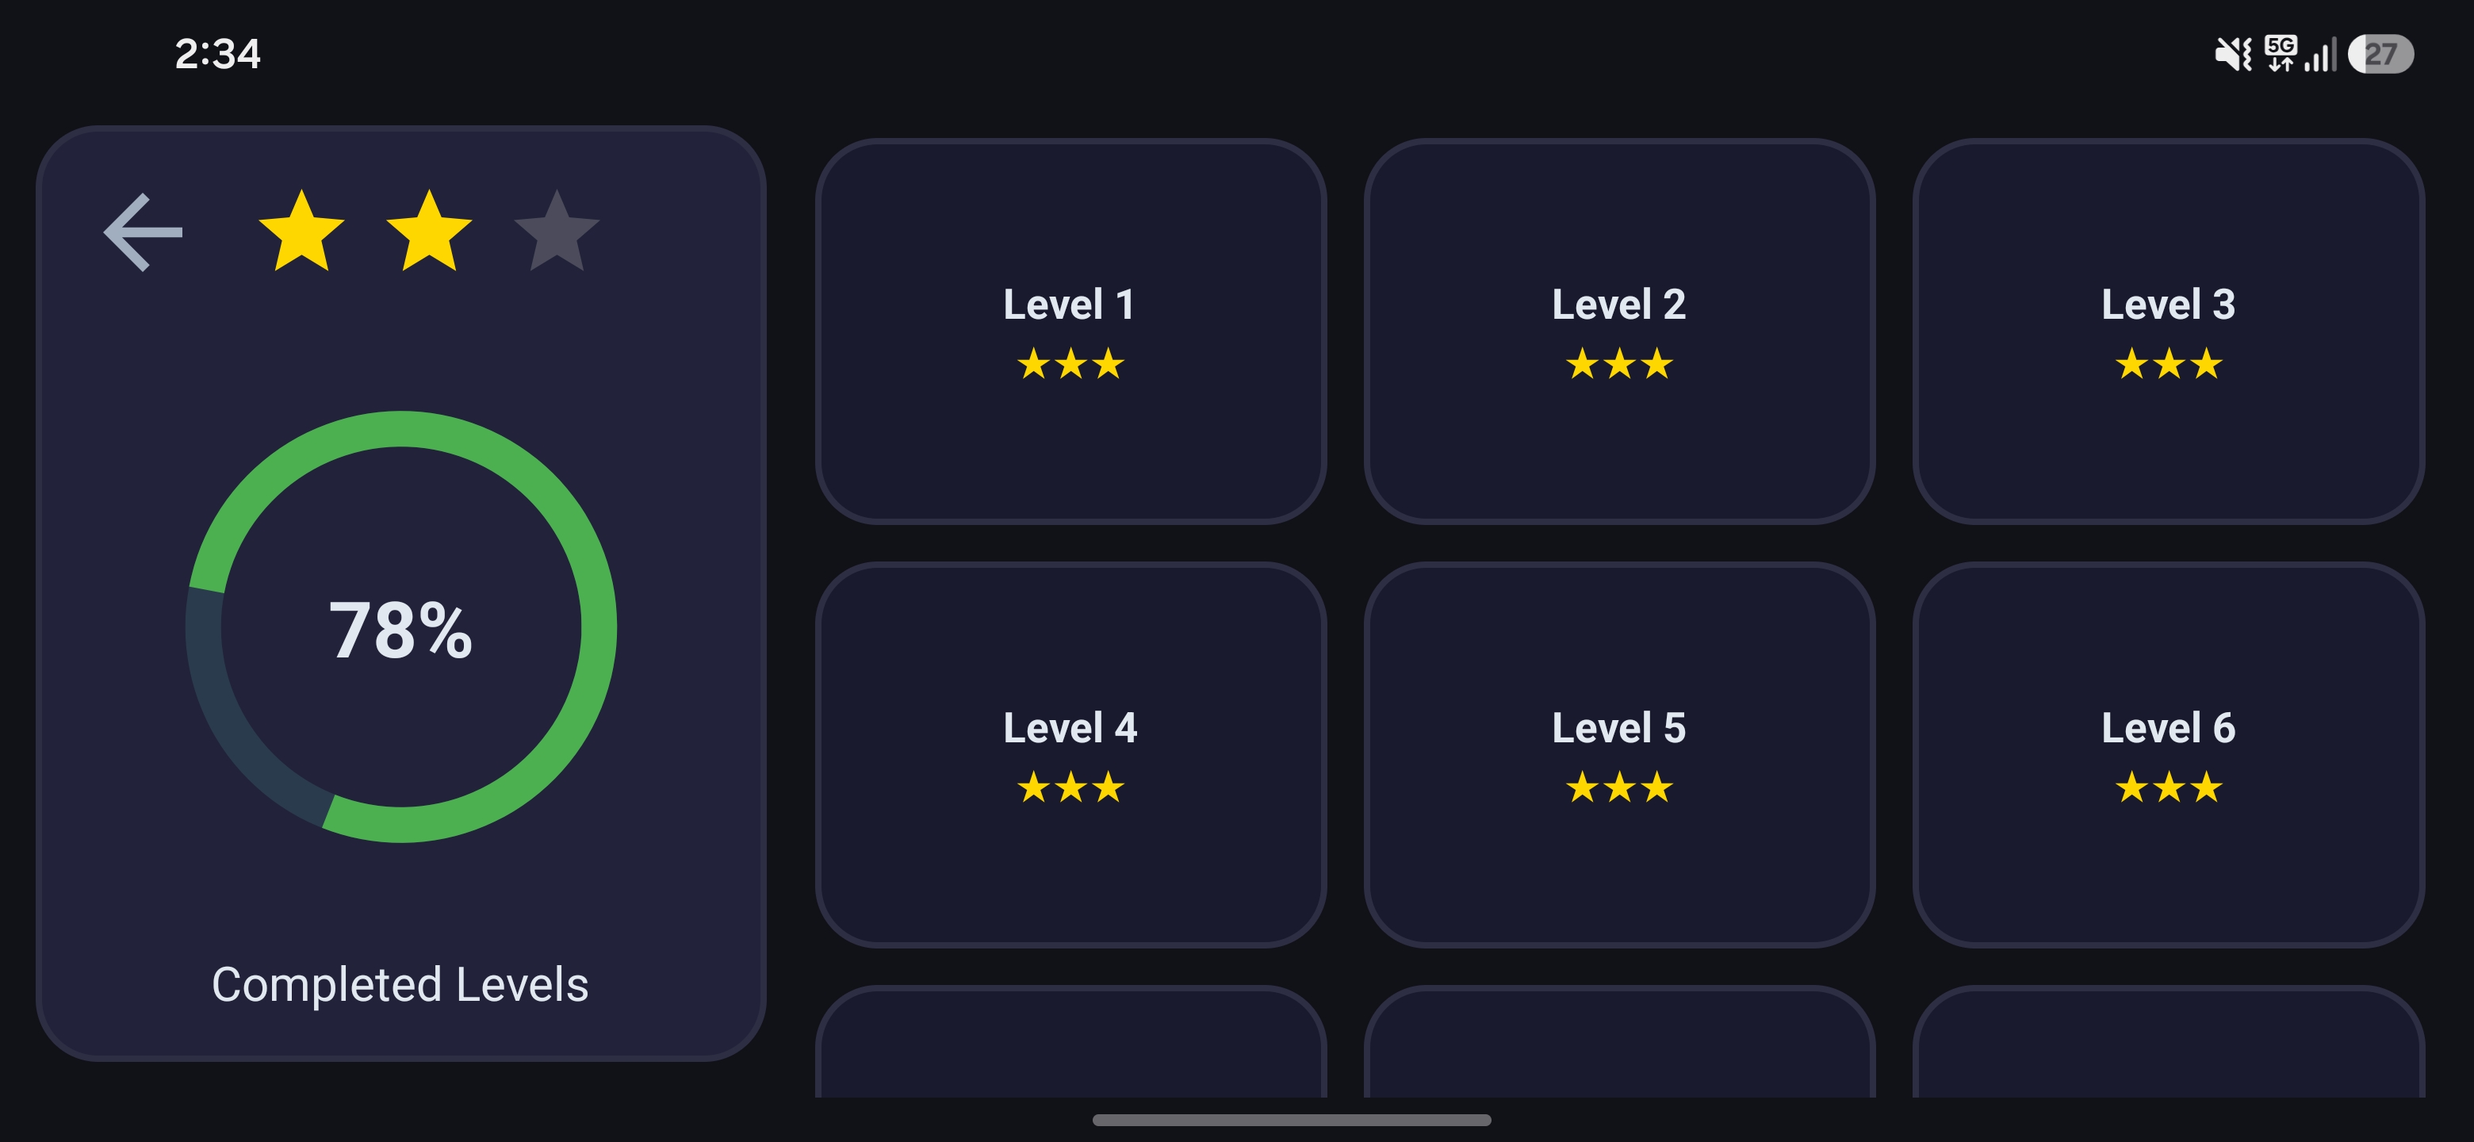
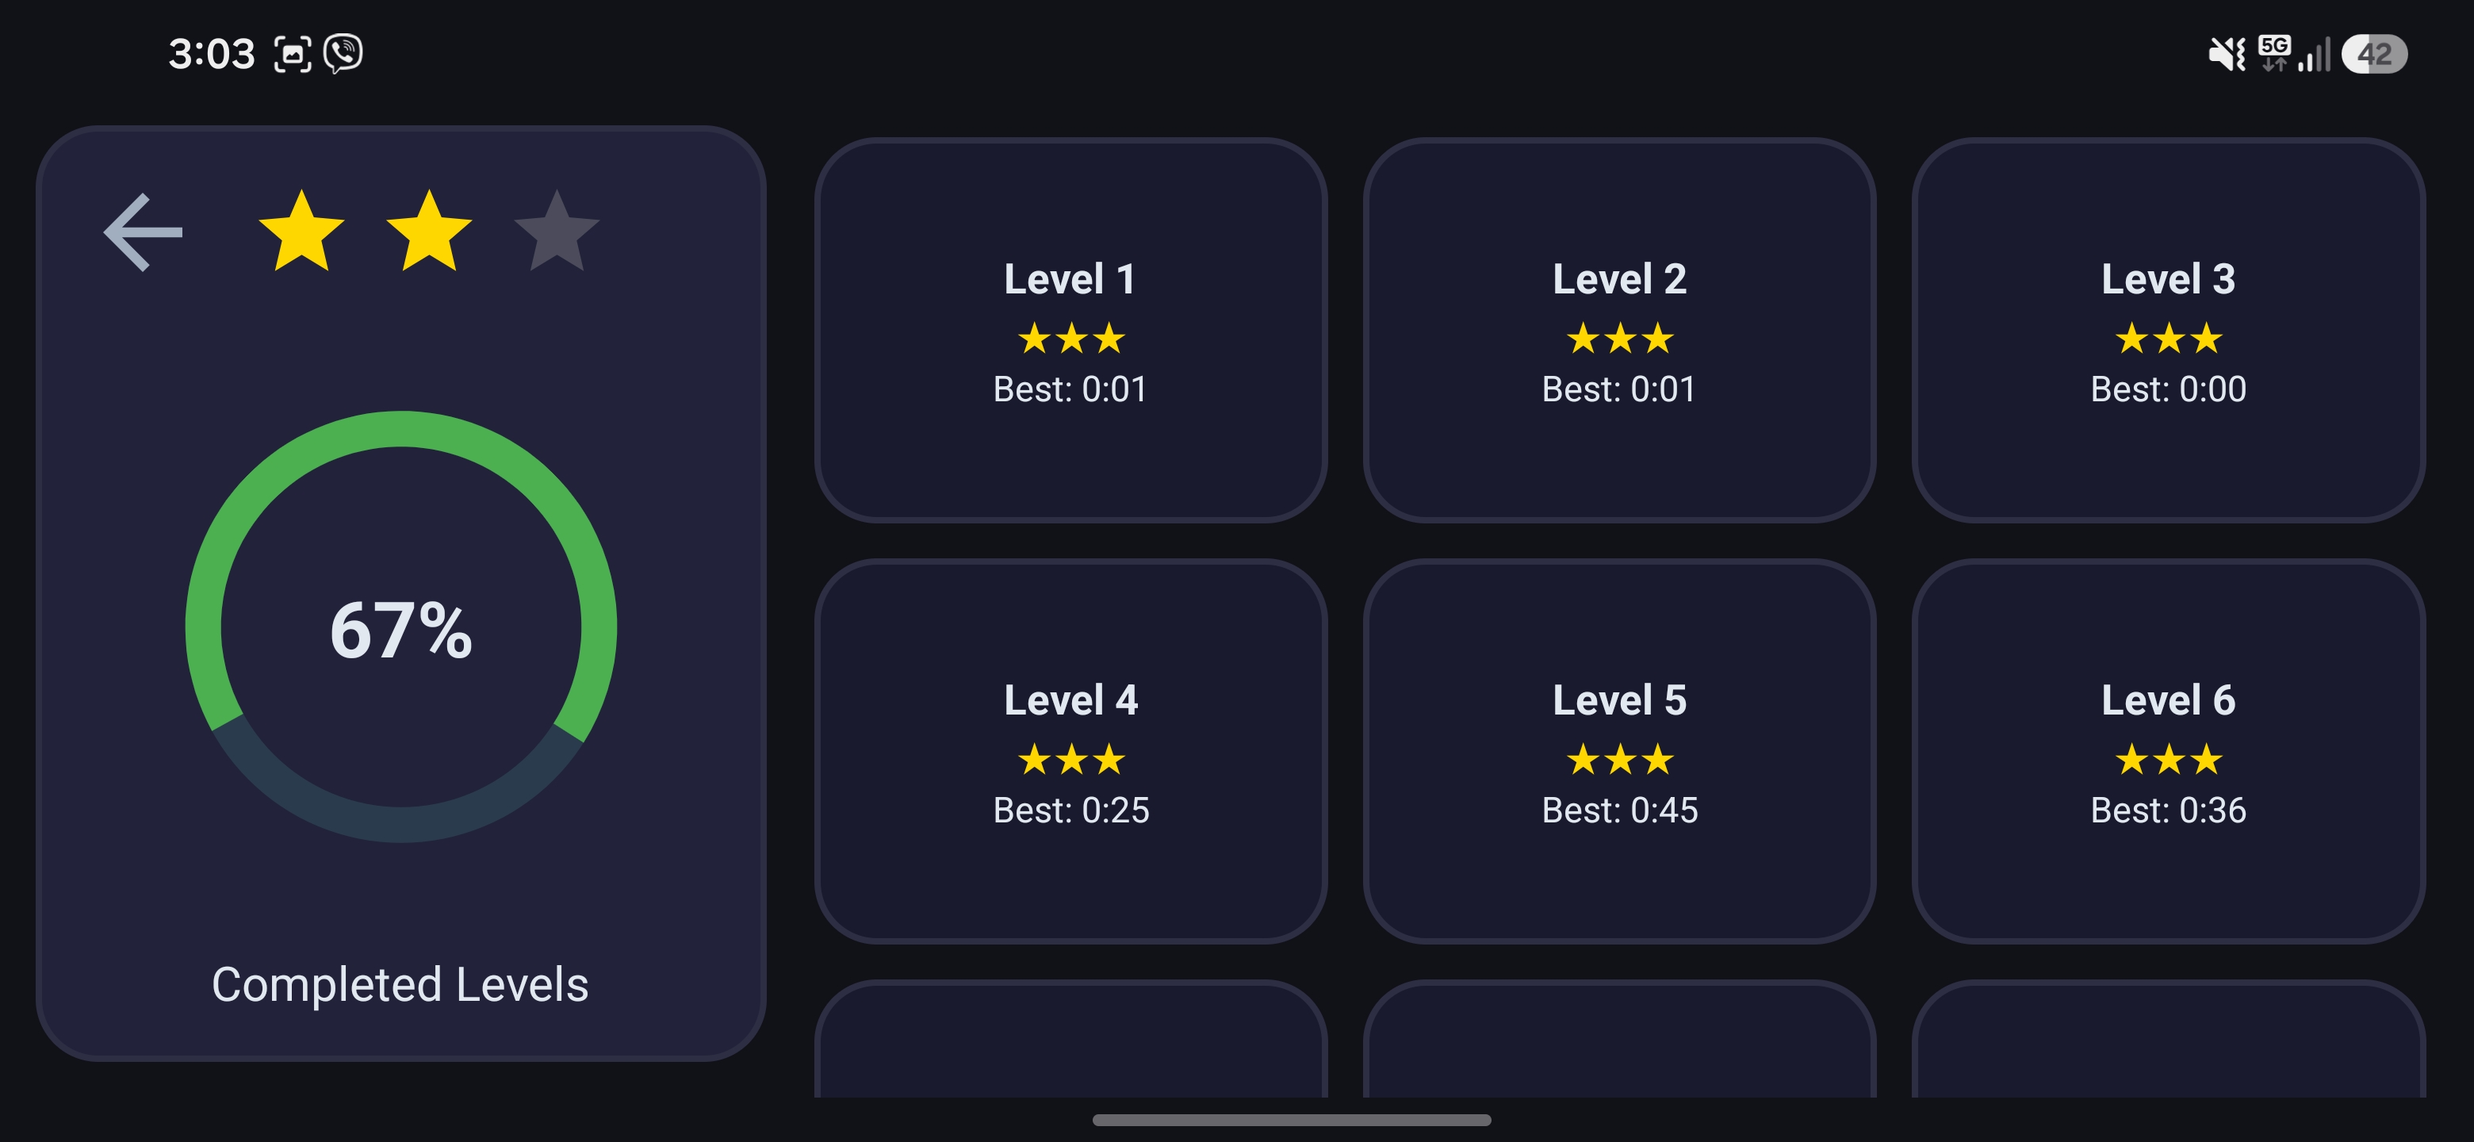
remove dead code, simplify API (#31)

diff --git a/app/src/main/java/com/example/educationgame/logic/BaseCircuitView.java b/app/src/main/java/com/example/educationgame/logic/BaseCircuitView.java
@@ -40,7 +40,6 @@ public abstract class BaseCircuitView extends View {
         public final float h;
         public boolean value = false;
         public final List<Port> ports = new ArrayList<>();
-        public boolean dragging = false;
 
         public Component(String id, String type, float x, float y, float w, float h) {
             this.id = id;
@@ -63,10 +62,6 @@ public abstract class BaseCircuitView extends View {
         }
     }
 
-    public interface OnCircuitChangedListener {
-        void onCircuitChanged(boolean bulbOn);
-    }
-
     protected final List<Component> components = new ArrayList<>();
     protected final List<Wire> wires = new ArrayList<>();
     protected final List<Port> allPorts = new ArrayList<>();
@@ -76,7 +71,7 @@ public abstract class BaseCircuitView extends View {
     protected Port hoveredPort = null;
 
     protected final Paint paint = new Paint(Paint.ANTI_ALIAS_FLAG);
-    protected OnCircuitChangedListener listener;
+    protected Runnable onCircuitChanged;
 
     protected int colorBg;
     protected int colorPort;
@@ -120,8 +115,8 @@ public abstract class BaseCircuitView extends View {
         invalidate();
     }
 
-    public void setOnCircuitChangedListener(OnCircuitChangedListener l) {
-        this.listener = l;
+    public void setOnCircuitChangedListener(Runnable l) {
+        this.onCircuitChanged = l;
     }
 
     private void loadColors() {
@@ -183,9 +178,9 @@ public abstract class BaseCircuitView extends View {
         return c;
     }
 
-    protected Component makeBulb(String id, float x, float y, float size) {
-        Component c = new Component(id, "BULB", x, y, size, size);
-        Port in = new Port(id + "_in", id, x, y + size / 2f, false);
+    protected Component makeBulb(float x, float y, float size) {
+        Component c = new Component("bulb", "BULB", x, y, size, size);
+        Port in = new Port("bulb" + "_in", "bulb", x, y + size / 2f, false);
         c.ports.add(in);
         return c;
     }
@@ -208,42 +203,26 @@ public abstract class BaseCircuitView extends View {
                 Component toComp   = findComponentById(wire.to.componentId);
                 if (fromComp == null || toComp == null) continue;
 
-                if (toComp.type.equals("AND")) {
-                    toComp.value = getInputValue(toComp, "in1") && getInputValue(toComp, "in2");
-                } else if (toComp.type.equals("OR")) {
-                    toComp.value = getInputValue(toComp, "in1") || getInputValue(toComp, "in2");
-                } else if (toComp.type.equals("NOT")) {
-                    toComp.value = !fromComp.value;
-                } else if (toComp.type.equals("BULB")) {
-                    toComp.value = fromComp.value;
+                switch (toComp.type) {
+                    case "AND":
+                        toComp.value = getInputValue(toComp, "in1") && getInputValue(toComp, "in2");
+                        break;
+                    case "OR":
+                        toComp.value = getInputValue(toComp, "in1") || getInputValue(toComp, "in2");
+                        break;
+                    case "NOT":
+                        toComp.value = !fromComp.value;
+                        break;
+                    case "BULB":
+                        toComp.value = fromComp.value;
+                        break;
                 }
                 wire.active = fromComp.value;
             }
         }
 
-        Component bulb = findComponentById("bulb");
-        boolean bulbOn = bulb != null && bulb.value && isCircuitValid();
-        if (listener != null) listener.onCircuitChanged(bulbOn);
+        if (onCircuitChanged != null) onCircuitChanged.run();
         invalidate();
-    }
-
-    protected boolean isCircuitValid() {
-        return true;
-    }
-
-    protected boolean allGatesConnected() {
-        for (Component c : components) {
-            if (c.type.equals("AND") || c.type.equals("OR") || c.type.equals("NOT")) {
-                boolean hasInput  = false;
-                boolean hasOutput = false;
-                for (Wire wire : wires) {
-                    if (wire.to.componentId.equals(c.id))   hasInput  = true;
-                    if (wire.from.componentId.equals(c.id)) hasOutput = true;
-                }
-                if (!hasInput || !hasOutput) return false;
-            }
-        }
-        return true;
     }
 
     protected boolean getInputValue(Component gate, String suffix) {

diff --git a/app/src/main/java/com/example/educationgame/logic/LogicLevels.java b/app/src/main/java/com/example/educationgame/logic/LogicLevels.java
@@ -10,21 +10,18 @@ public final class LogicLevels {
     static {
         // ===== ГРУПА 1: TAP/TOGGLE (Нивоа 1-3) =====
         LEVELS.put(1, new LogicLevelConfig(
-                1,
                 LogicEngine.GateType.AND,
                 "Both inputs must be TRUE",
                 30, 60
         ));
 
         LEVELS.put(2, new LogicLevelConfig(
-                2,
                 LogicEngine.GateType.OR,
                 "At least one input must be TRUE",
                 30, 60
         ));
 
         LEVELS.put(3, new LogicLevelConfig(
-                3,
                 LogicEngine.GateType.NOT,
                 "Flip the input to TRUE",
                 20, 45
@@ -32,21 +29,18 @@ public final class LogicLevels {
 
         // ===== ГРУПА 2: DRAG & DROP (Нивоа 4-6) =====
         LEVELS.put(4, new LogicLevelConfig(
-                4,
                 LogicEngine.GateType.AND,
                 "Connect the wires correctly",
                 120, 240
         ));
 
         LEVELS.put(5, new LogicLevelConfig(
-                5,
                 LogicEngine.GateType.OR,
                 "Connect the wires correctly",
                 150, 300
         ));
 
         LEVELS.put(6, new LogicLevelConfig(
-                6,
                 LogicEngine.GateType.NOT,
                 "Connect the wires correctly",
                 180, 360
@@ -54,21 +48,18 @@ public final class LogicLevels {
 
         // ===== ГРУПА 3: ПОСТАВИ КОМПОНЕНТИ (Нивоа 7-9) =====
         LEVELS.put(7, new LogicLevelConfig(
-                7,
                 LogicEngine.GateType.AND,
                 "Build a circuit with exactly 4 gates — AND and NOT required",
                 180, 360
         ));
 
         LEVELS.put(8, new LogicLevelConfig(
-                8,
                 LogicEngine.GateType.OR,
                 "Build a circuit with exactly 5 gates — AND, NOT and OR required",
                 240, 480
         ));
 
         LEVELS.put(9, new LogicLevelConfig(
-                9,
                 LogicEngine.GateType.AND,
                 "Build a complex circuit with exactly 6 gates",
                 300, 600

diff --git a/app/src/main/java/com/example/educationgame/logic/LogicWireView.java b/app/src/main/java/com/example/educationgame/logic/LogicWireView.java
@@ -11,11 +11,6 @@ public class LogicWireView extends BaseCircuitView {
     public LogicWireView(Context context) { super(context); }
     public LogicWireView(Context context, AttributeSet attrs) { super(context, attrs); }
 
-    @Override
-    protected boolean isCircuitValid() {
-        return allGatesConnected();
-    }
-
     public String getUnconnectedGateMessage() {
         for (Component c : components) {
             if (c.type.equals("AND") || c.type.equals("OR") || c.type.equals("NOT")) {
@@ -89,7 +84,7 @@ public class LogicWireView extends BaseCircuitView {
         Component not2 = makeGate("not2", "NOT", col4x, or1y + gh*0.4f, gw, gh);
 
         float bulbSize = Math.min(w, h) * 0.22f;
-        Component bulb = makeBulb("bulb", w*0.86f, h/2f - bulbSize/2f, bulbSize);
+        Component bulb = makeBulb(w*0.86f, h/2f - bulbSize/2f, bulbSize);
 
         addAll(btnA, btnB, btnC, btnD, and1, not1, and2, or1, not2, bulb);
     }
@@ -128,7 +123,7 @@ public class LogicWireView extends BaseCircuitView {
         Component and4 = makeGate("and4", "AND", col4x, h/2f - gh*1.3f/2f, gw, gh*1.3f);
 
         float bulbSize = Math.min(w, h) * 0.20f;
-        Component bulb = makeBulb("bulb", w*0.86f, h/2f - bulbSize/2f, bulbSize);
+        Component bulb = makeBulb(w*0.86f, h/2f - bulbSize/2f, bulbSize);
 
         addAll(btnA, btnB, btnC, btnD, or1, not1, and1, and2, and3, or2, not2, and4, bulb);
     }
@@ -164,7 +159,7 @@ public class LogicWireView extends BaseCircuitView {
         Component and4 = makeGate("and4", "AND", col5x, h/2f - gh*1.3f/2f, gw, gh*1.3f);
 
         float bulbSize = Math.min(w, h) * 0.18f;
-        Component bulb = makeBulb("bulb", w*0.92f, h/2f - bulbSize/2f, bulbSize);
+        Component bulb = makeBulb(w*0.92f, h/2f - bulbSize/2f, bulbSize);
 
         addAll(btnA, btnB, btnC, and1, not1, and2, not2, not3, or1, and3, not4, or2, or3, and4, bulb);
     }

diff --git a/app/src/main/java/com/example/educationgame/common/BaseLevelSelectActivity.java b/app/src/main/java/com/example/educationgame/common/BaseLevelSelectActivity.java
@@ -62,7 +62,7 @@ public abstract class BaseLevelSelectActivity extends AppCompatActivity {
     protected abstract String getGameDescription();
     protected abstract String getLevelDescription(int levelNumber);
     protected abstract int getTotalPossibleStars();
-    protected abstract Intent buildPlayIntent(int index, int levelNum, int levelId);
+    protected abstract Intent buildPlayIntent(int levelNum, int levelId);
 
     protected void onLevelsSeeded(int gameId) {
     }
@@ -288,7 +288,7 @@ public abstract class BaseLevelSelectActivity extends AppCompatActivity {
                 statusView.setText(R.string.level_locked);
                 statusView.setTextColor(getColor(R.color.locked_text));
                 bestTimeView.setVisibility(View.GONE);
-                levelCards[i].setOnClickListener(null);
+                setCardClickListener(i, false);
             }
         }
     }
@@ -305,7 +305,7 @@ public abstract class BaseLevelSelectActivity extends AppCompatActivity {
         }
         int levelNum = index + 1;
         levelCards[index].setOnClickListener(v -> {
-            Intent intent = buildPlayIntent(index, levelNum, levelIds[index]);
+            Intent intent = buildPlayIntent(levelNum, levelIds[index]);
             levelPlayLauncher.launch(intent);
         });
     }

diff --git a/app/src/main/java/com/example/educationgame/logic/LogicLevelPlayActivity.java b/app/src/main/java/com/example/educationgame/logic/LogicLevelPlayActivity.java
@@ -168,18 +168,16 @@ public class LogicLevelPlayActivity extends AppCompatActivity {
         if (levelNumber <= 3) {
             gameView.setGateType(currentLevel.getGateType());
             gameView.setOnInputChangedListener(new LogicGameView.OnInputChangedListener() {
-                @Override
-                public void onInputAChanged(boolean value) {
+                public void onInputAChanged() {
                     checkButton.setEnabled(true);
                 }
-                @Override
-                public void onInputBChanged(boolean value) {
+                public void onInputBChanged() {
                     checkButton.setEnabled(true);
                 }
             });
         } else if (levelNumber <= 6) {
             wireView.setupLevel(levelNumber);
-            wireView.setOnCircuitChangedListener(bulbOn -> checkButton.setEnabled(true));
+            wireView.setOnCircuitChangedListener(() -> checkButton.setEnabled(true));
             checkButton.setEnabled(true);
         } else {
             // Нивоа 7-9 — прикажи popup прво

diff --git a/app/src/main/java/com/example/educationgame/logic/LogicGameView.java b/app/src/main/java/com/example/educationgame/logic/LogicGameView.java
@@ -47,8 +47,8 @@ public class LogicGameView extends View {
     private OnInputChangedListener listener;
 
     public interface OnInputChangedListener {
-        void onInputAChanged(boolean value);
-        void onInputBChanged(boolean value);
+        void onInputAChanged();
+        void onInputBChanged();
     }
 
     private void loadColors() {
@@ -134,7 +134,7 @@ public class LogicGameView extends View {
             inputA = !inputA;
             recalcOutput();
             invalidate();
-            if (listener != null) listener.onInputAChanged(inputA);
+            if (listener != null) listener.onInputAChanged();
             return true;
         }
 
@@ -142,7 +142,7 @@ public class LogicGameView extends View {
             inputB = !inputB;
             recalcOutput();
             invalidate();
-            if (listener != null) listener.onInputBChanged(inputB);
+            if (listener != null) listener.onInputBChanged();
             return true;
         }
 

diff --git a/app/src/main/java/com/example/educationgame/scheduler/LevelSchedulerPlayActivity.java b/app/src/main/java/com/example/educationgame/scheduler/LevelSchedulerPlayActivity.java
@@ -242,21 +242,6 @@ public class LevelSchedulerPlayActivity extends AppCompatActivity implements Sch
         return true;
     }
 
-    private String getWrongOrderMessage() {
-        switch (algorithm) {
-            case SJF:
-                return getString(R.string.wrong_order_sjf);
-            case LJF:
-                return getString(R.string.wrong_order_ljf);
-            case PRIORITY:
-                return getString(R.string.wrong_order_priority);
-            case ROUND_ROBIN:
-                return getString(R.string.wrong_order_rr);
-            default:
-                return getString(R.string.wrong_order);
-        }
-    }
-
     private void updateGanttAndStats() {
         List<ProcessInfo> ordered = new ArrayList<>();
         for (int i = 0; i < totalSlots; i++) {

diff --git a/app/src/main/java/com/example/educationgame/logic/LogicLevelConfig.java b/app/src/main/java/com/example/educationgame/logic/LogicLevelConfig.java
@@ -1,15 +1,13 @@
 package com.example.educationgame.logic;
 
 public class LogicLevelConfig {
-    private final int levelNumber;
     private final LogicEngine.GateType gateType;
     private final String description;
     private final int threeStarSeconds;
     private final int twoStarSeconds;
 
-    public LogicLevelConfig(int levelNumber, LogicEngine.GateType gateType,
+    public LogicLevelConfig(LogicEngine.GateType gateType,
                             String description, int threeStarSeconds, int twoStarSeconds) {
-        this.levelNumber = levelNumber;
         this.gateType = gateType;
         this.description = description;
         this.threeStarSeconds = threeStarSeconds;

diff --git a/app/src/main/java/com/example/educationgame/data/scheduler/model/LevelConfig.java b/app/src/main/java/com/example/educationgame/data/scheduler/model/LevelConfig.java
@@ -12,14 +12,6 @@ public class LevelConfig {
     private final int threeStarSeconds;
     private final int twoStarSeconds;
 
-    public LevelConfig(SchedulingAlgorithm algorithm, List<ProcessDef> processes) {
-        this(algorithm, processes, 0, 0, 0);
-    }
-
-    public LevelConfig(SchedulingAlgorithm algorithm, List<ProcessDef> processes, int timeQuantum) {
-        this(algorithm, processes, timeQuantum, 0, 0);
-    }
-
     public LevelConfig(SchedulingAlgorithm algorithm, List<ProcessDef> processes,
                        int threeStarSeconds, int twoStarSeconds) {
         this(algorithm, processes, 0, threeStarSeconds, twoStarSeconds);

diff --git a/app/src/main/java/com/example/educationgame/scheduler/SchedulerActivity.java b/app/src/main/java/com/example/educationgame/scheduler/SchedulerActivity.java
@@ -52,7 +52,7 @@ public class SchedulerActivity extends BaseLevelSelectActivity {
     }
 
     @Override
-    protected Intent buildPlayIntent(int index, int levelNum, int levelId) {
+    protected Intent buildPlayIntent(int levelNum, int levelId) {
         Intent intent = new Intent(this, LevelSchedulerPlayActivity.class);
         intent.putExtra(LevelSchedulerPlayActivity.EXTRA_LEVEL_NUMBER, levelNum);
         intent.putExtra(LevelSchedulerPlayActivity.EXTRA_LEVEL_ID, levelId);

diff --git a/app/src/main/java/com/example/educationgame/logic/LogicActivity.java b/app/src/main/java/com/example/educationgame/logic/LogicActivity.java
@@ -50,7 +50,7 @@ public class LogicActivity extends BaseLevelSelectActivity {
     }
 
     @Override
-    protected Intent buildPlayIntent(int index, int levelNum, int levelId) {
+    protected Intent buildPlayIntent(int levelNum, int levelId) {
         Intent intent = new Intent(this, LogicLevelPlayActivity.class);
         intent.putExtra(LogicLevelPlayActivity.EXTRA_LEVEL_NUMBER, levelNum);
         intent.putExtra(LogicLevelPlayActivity.EXTRA_LEVEL_ID, levelId);

diff --git a/app/src/main/java/com/example/educationgame/logic/LogicBuildView.java b/app/src/main/java/com/example/educationgame/logic/LogicBuildView.java
@@ -79,7 +79,7 @@ public class LogicBuildView extends BaseCircuitView {
             float w = getWidth();
             float h = getHeight();
             float bulbSize = Math.min(w, h) * 0.28f;
-            Component bulb = makeBulb("bulb",
+            Component bulb = makeBulb(
                     w * 0.82f, h / 2f - bulbSize / 2f, bulbSize);
             addComponent(bulb);
             invalidate();
